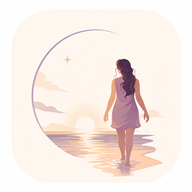
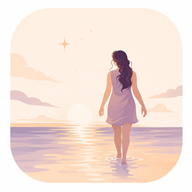
Nuova icona + nome completo + auto-update
- Icone rigenerate dalla nuova immagine, cache-bust ?v=2 (manifest/apple-touch)
- short_name e apple-mobile-web-app-title = 'Cammino Interiore' (nome intero)
- sw.js network-first: app sempre aggiornata online, offline usa cache

diff --git a/sw.js b/sw.js
@@ -1,1 +1,42 @@
+// Push notifications (Cammino Interiore — via PWA Manager)
 importScripts('https://pwa.elisasoulmedium.com/cammino-interiore/sw-core.js');
+
+// ─── Aggiornamento automatico: strategia "network-first" ────────────────────
+// Quando sei ONLINE l'app carica SEMPRE l'ultima versione dalla rete.
+// Quando sei OFFLINE usa l'ultima versione salvata in cache.
+const CACHE = 'cammino-v2';
+
+self.addEventListener('fetch', function(event) {
+  const req = event.request;
+  if (req.method !== 'GET') return;
+
+  const url = new URL(req.url);
+  // Solo risorse del nostro sito; il resto (font, init.js, push) lo gestisce il browser
+  if (url.origin !== self.location.origin) return;
+
+  event.respondWith(
+    fetch(req)
+      .then(function(res) {
+        // Salva una copia aggiornata in cache (per l'uso offline)
+        const copy = res.clone();
+        caches.open(CACHE).then(function(c) { c.put(req, copy); });
+        return res;
+      })
+      .catch(function() {
+        // Rete non disponibile: usa la copia salvata
+        return caches.match(req);
+      })
+  );
+});
+
+// Pulisci le cache vecchie quando cambia la versione
+self.addEventListener('activate', function(event) {
+  event.waitUntil(
+    caches.keys().then(function(keys) {
+      return Promise.all(
+        keys.filter(function(k) { return k !== CACHE; })
+            .map(function(k) { return caches.delete(k); })
+      );
+    })
+  );
+});

diff --git a/install/index.html b/install/index.html
@@ -18,8 +18,8 @@
 <meta name="theme-color" content="#b9a3e3">
 <meta name="apple-mobile-web-app-capable" content="yes">
 <meta name="apple-mobile-web-app-status-bar-style" content="black-translucent">
-<meta name="apple-mobile-web-app-title" content="Cammino">
-<link rel="apple-touch-icon" href="/src/icon-180.png">
+<meta name="apple-mobile-web-app-title" content="Cammino Interiore">
+<link rel="apple-touch-icon" href="/src/icon-180.png?v=2">
 
 <link rel="preconnect" href="https://fonts.googleapis.com">
 <link rel="preconnect" href="https://fonts.gstatic.com" crossorigin>
@@ -161,7 +161,7 @@ footer{
 
 <div class="card">
   <div class="icon-wrap">
-    <img class="app-icon" src="/src/icon-192.png" alt="Cammino Interiore">
+    <img class="app-icon" src="/src/icon-192.png?v=2" alt="Cammino Interiore">
   </div>
   <h1>Cammino Interiore</h1>
   <p class="tagline">Il tuo percorso di crescita interiore</p>

diff --git a/app/index.html b/app/index.html
@@ -7,8 +7,8 @@
 <link rel="manifest" href="/manifest.json">
 <meta name="apple-mobile-web-app-capable" content="yes">
 <meta name="apple-mobile-web-app-status-bar-style" content="black-translucent">
-<meta name="apple-mobile-web-app-title" content="Cammino">
-<link rel="apple-touch-icon" href="/src/icon-180.png">
+<meta name="apple-mobile-web-app-title" content="Cammino Interiore">
+<link rel="apple-touch-icon" href="/src/icon-180.png?v=2">
 <link rel="preconnect" href="https://fonts.googleapis.com">
 <link rel="preconnect" href="https://fonts.gstatic.com" crossorigin>
 <link href="https://fonts.googleapis.com/css2?family=Cinzel:wght@400;500;600;700&family=Cormorant+Garamond:wght@400;500;600;700&display=swap" rel="stylesheet">